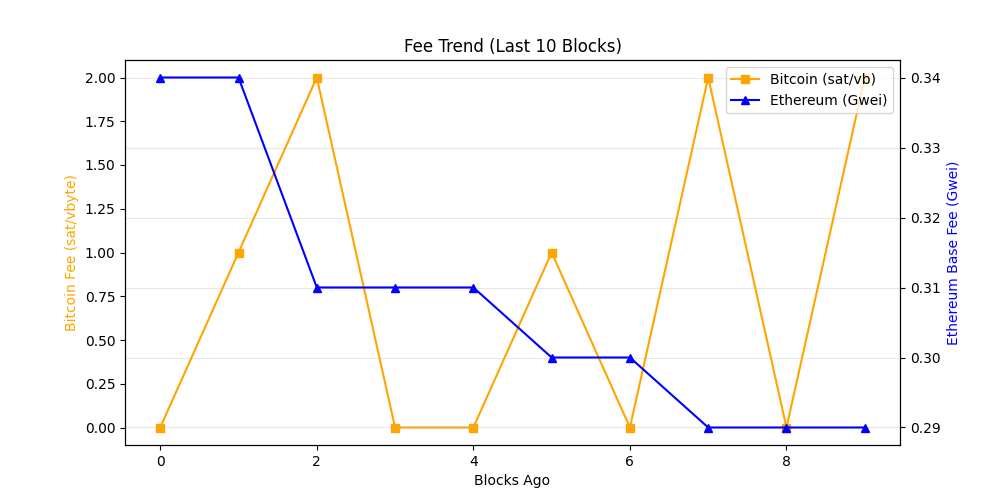
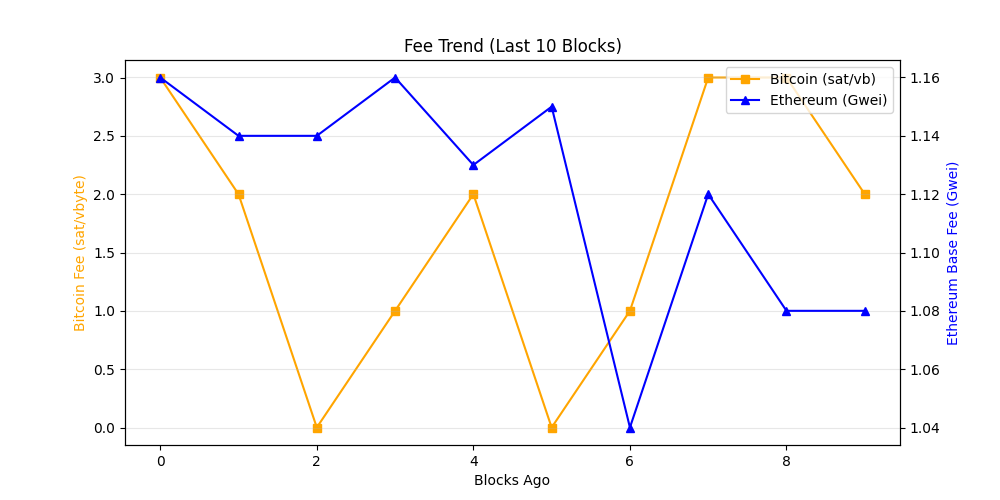
chore: update on-chain dashboard

diff --git a/README.md b/README.md
@@ -19,7 +19,7 @@ The README itself acts as the dashboard and is regenerated automatically on a 6 
 demonstrating a production-style, infrastructure-focused observability workflow rather
 than a traditional UI-driven approach.
 
-_Last updated: 2026-04-27 03:59 UTC_
+_Last updated: 2026-04-27 08:40 UTC_
 
 ## API Usage (GetBlock.io)
 - Calls used: **24**
@@ -27,8 +27,8 @@ _Last updated: 2026-04-27 03:59 UTC_
 ## Network Metrics
 | Chain | Block Height | TX Count | TPS (10 blk avg) | Block Util | Avg Fee |
 |------|-------------|----------|------------------|------------|---------|
-| Ethereum | 24968839 | 717 | 59.75 | 83.94% | 0.3 Gwei |
-| Bitcoin | 946826 | 2883 | 2.74 | 99.79% | N/A |
+| Ethereum | 24970238 | 502 | 41.83 | 49.05% | 1.1 Gwei |
+| Bitcoin | 946846 | 2970 | 4.72 | 99.79% | N/A |
 
 ## Visuals
 ### Transactions Trend
@@ -43,8 +43,11 @@ _Last updated: 2026-04-27 03:59 UTC_
 ## Whale Alerts (latest block)
 - Transaction hashes are truncated for readability.
 - Full hashes are available in `dashboards/metrics.json`
-- Bitcoin | 339.28 BTC | `ca2c31ea19c8…`
-- Bitcoin | 149.19 BTC | `f9a4f3125be9…`
+- Bitcoin | 204.8 BTC | `e14db5a5fdbe…`
+- Bitcoin | 20200.91 BTC | `19ef60930818…`
+- Bitcoin | 122.2 BTC | `ce51ab155245…`
+- Bitcoin | 100.0 BTC | `586bf8237668…`
+- Bitcoin | 129.06 BTC | `01d5845f2ad0…`
 
 ## Run locally
 
